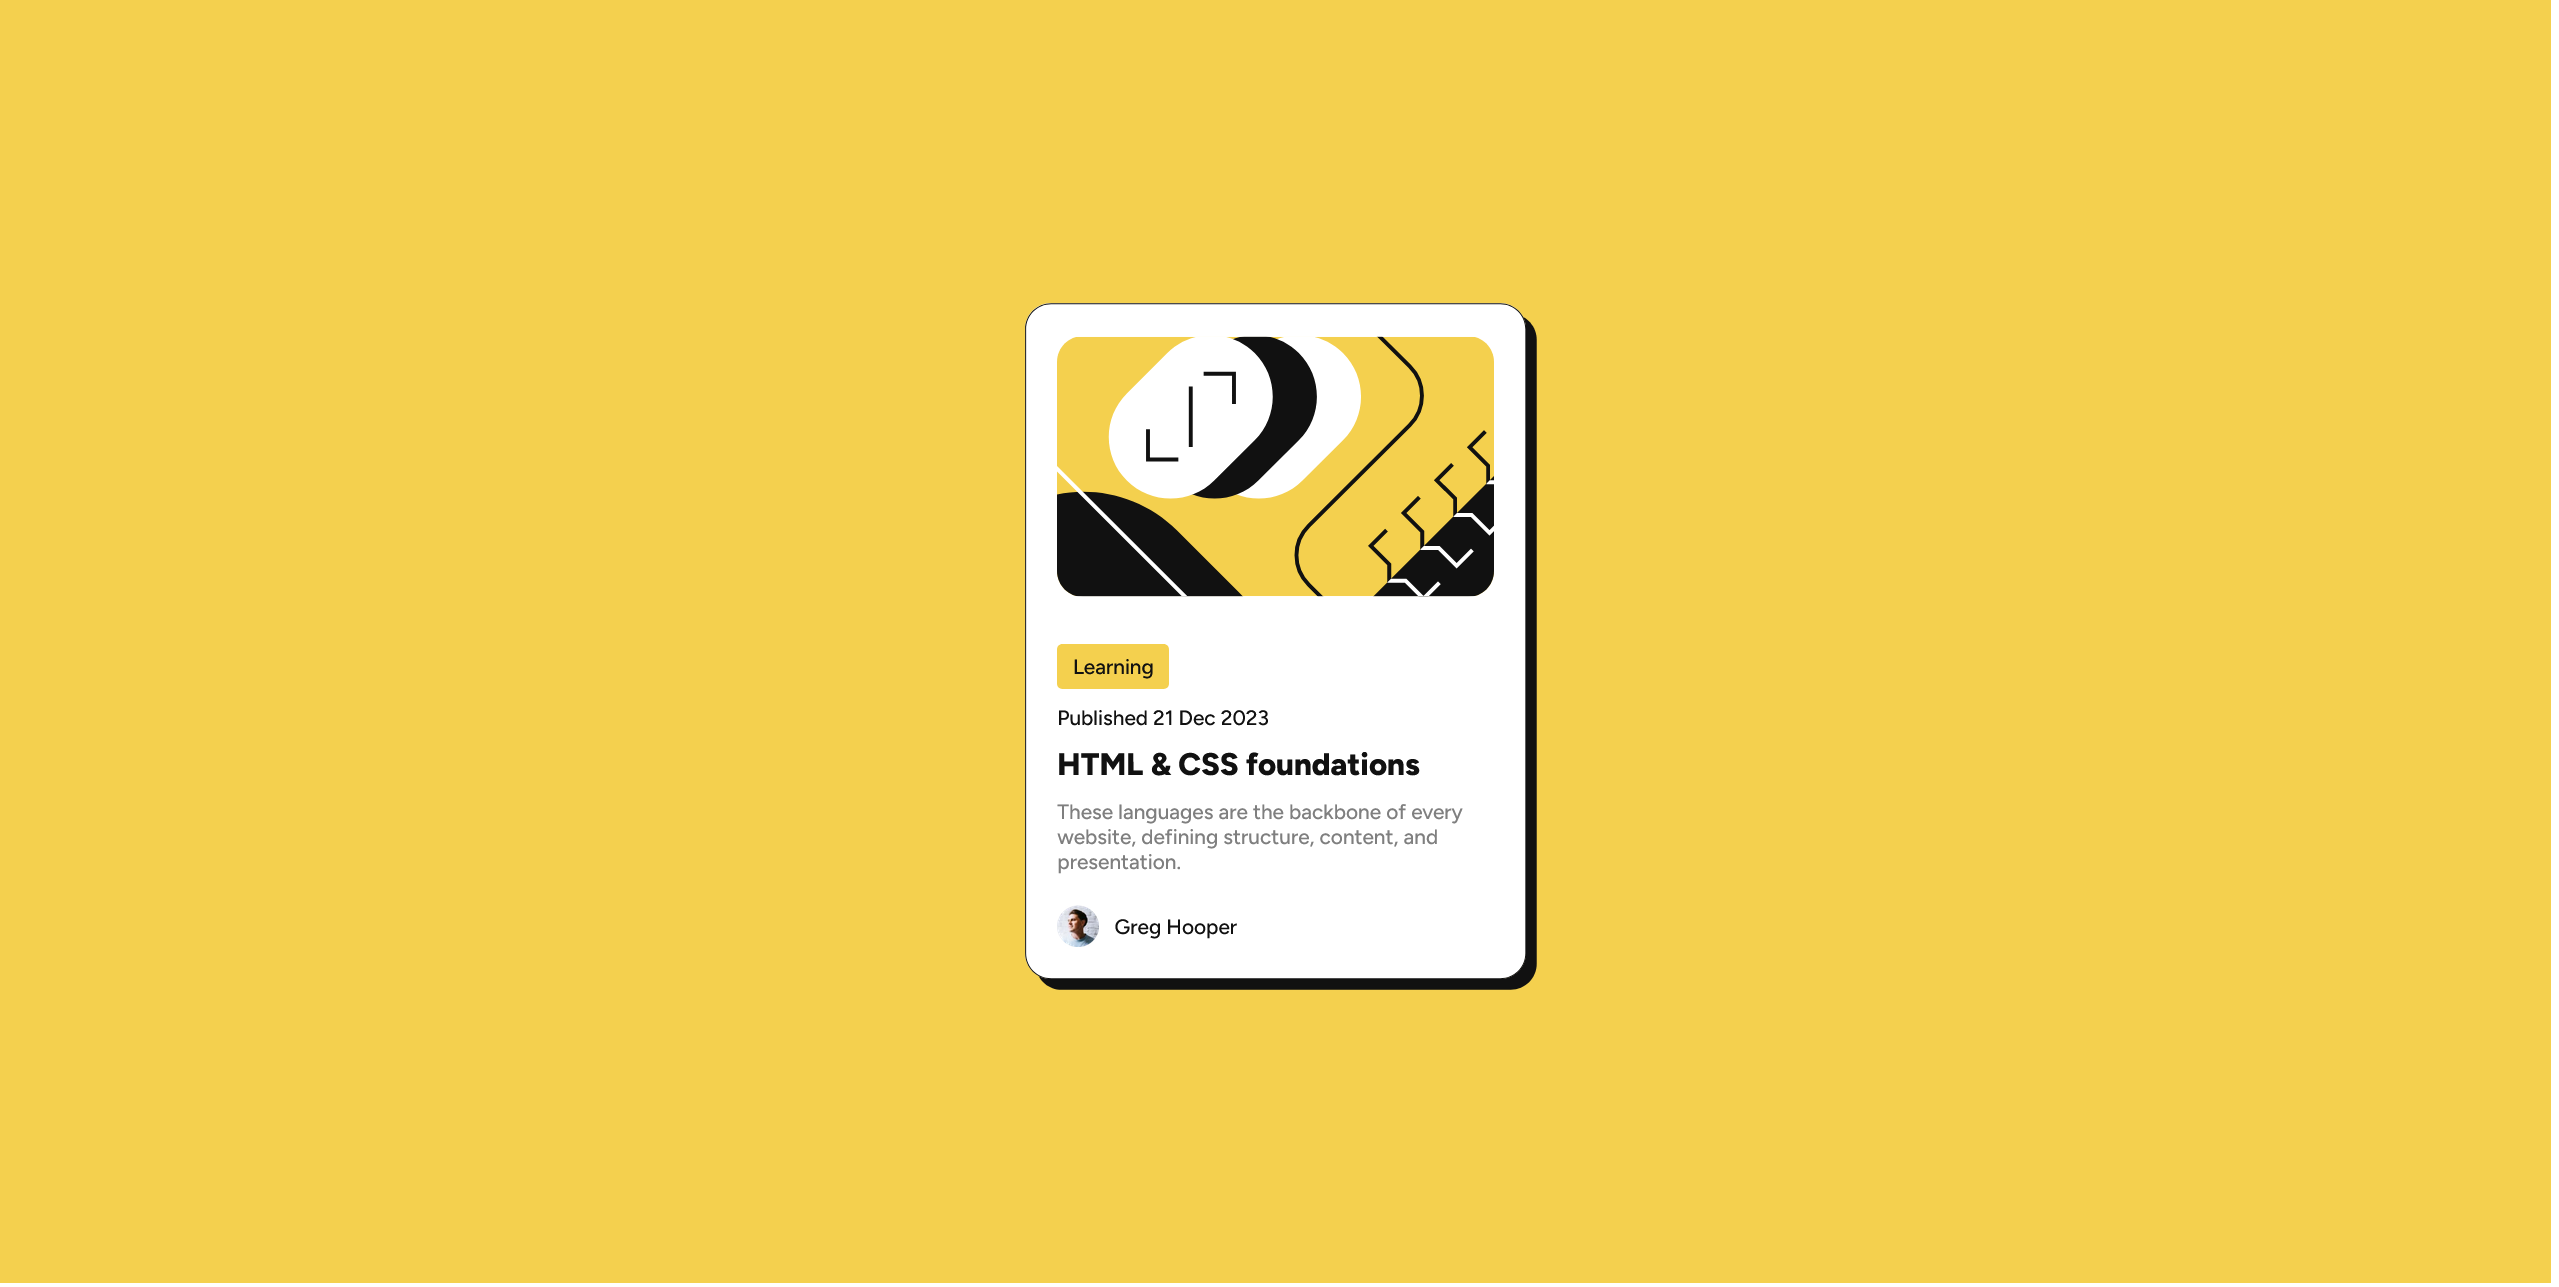
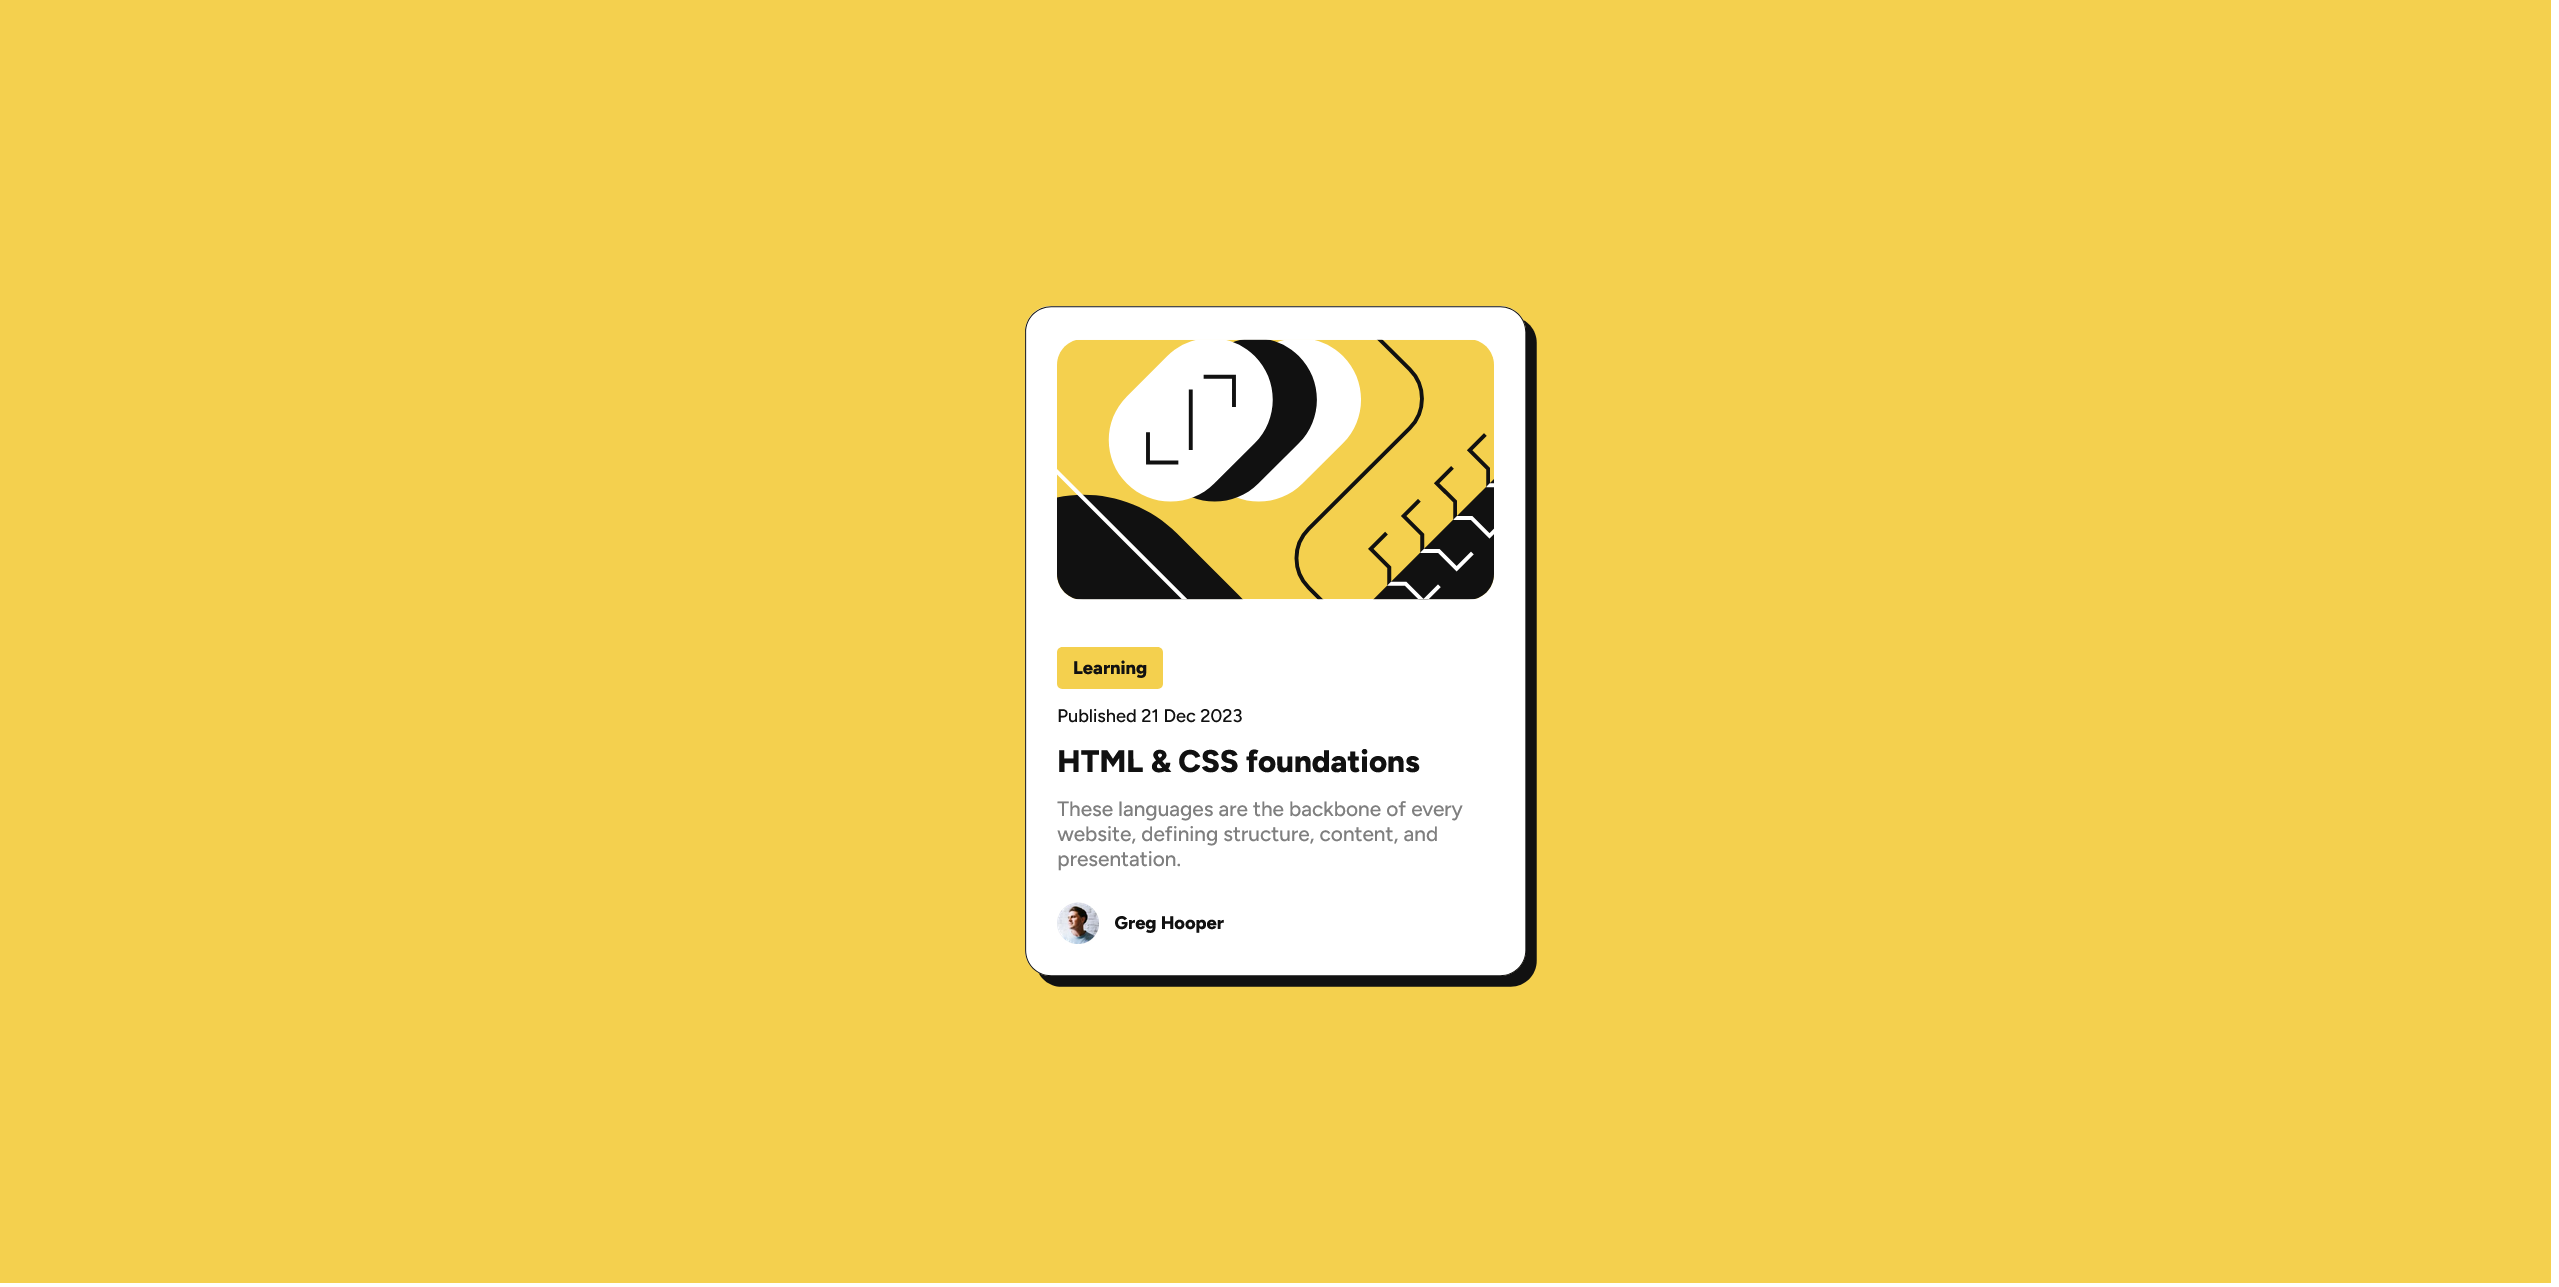
Fixed mobile font size and weight

diff --git a/styles/style.css b/styles/style.css
@@ -73,6 +73,12 @@ p {
     padding-inline: 12px;
     padding-block: 8px;
     width: fit-content;
+    font-size: 14px;
+    font-weight: 800;
+}
+
+.date {
+    font-size: 14px;
 }
 
 .content {
@@ -90,8 +96,29 @@ p {
     width: 32px;
 }
 
+.author a {
+    font-size: 14px;
+    font-weight: 800;
+}
+
 @media (max-width:375px) {
     .card {
         width: 327px;
+    }
+
+    .tag {
+        font-size: 12px;
+    }
+
+    .date {
+        font-size: 12px;
+    }
+
+    h1 {
+        font-size: 20;
+    }
+
+    .content {
+        font-size: 14px;
     }
 }
